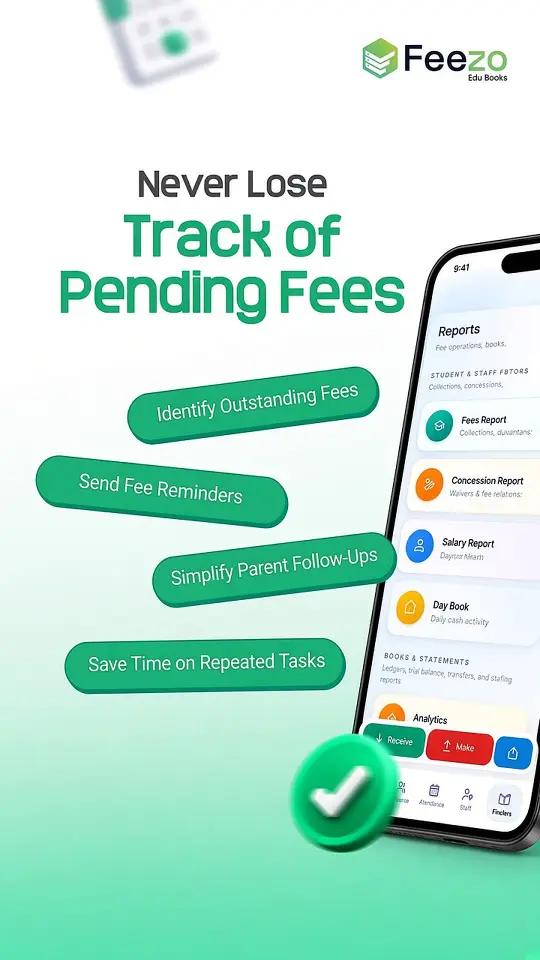
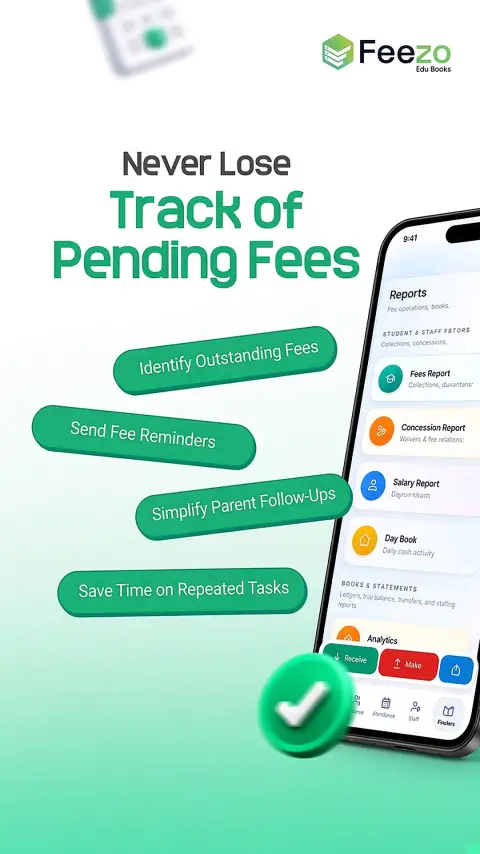
Serve display-sized WebP assets so PageSpeed stops downloading multi-megabyte PNGs.

diff --git a/src/components/marketing/sections/DigitalTransformation.tsx b/src/components/marketing/sections/DigitalTransformation.tsx
@@ -75,24 +75,24 @@ export function DigitalTransformation() {
 
           {/* Top right — follow-up */}
           <motion.article
-            className={`${CARD} overflow-hidden bg-[#f4fbf0] md:h-[380px]`}
+            className={`${CARD} flex min-h-[300px] flex-col bg-[#f4fbf0] sm:min-h-[340px] lg:min-h-[380px]`}
             initial={{ opacity: 0, y: 24 }}
             whileInView={{ opacity: 1, y: 0 }}
             viewport={{ once: true, margin: "-60px" }}
             transition={{ duration: 0.65, ease: easeOutExpo, delay: 0.06 }}
           >
             <MintGlow position="top-right" />
-            <div className="relative z-10 flex flex-col md:h-[380px]">
-              <div className="relative z-10 flex w-full flex-col p-6 sm:p-8 md:w-[36%] md:pr-0 md:pb-4 lg:w-[38%]">
+            <div className="relative z-10 flex min-h-0 flex-1 flex-col lg:flex-row lg:items-stretch">
+              <div className="relative z-10 flex w-full flex-col p-6 sm:p-8 lg:w-[44%] lg:shrink-0 lg:pr-3">
                 <h3 className="text-[22px] font-bold leading-[1.15] text-[var(--mkt-ink)] sm:text-[26px]">
                   One-click
                   <br />
                   follow-up
                 </h3>
-                <p className="mt-2.5 max-w-[28rem] text-[13px] leading-relaxed text-[var(--mkt-ink)] md:max-w-none">
+                <p className="mt-2.5 max-w-[28rem] text-[13px] leading-relaxed text-[var(--mkt-ink)] lg:max-w-none">
                   {FOLLOW_UP.body}
                 </p>
-                <div className="mt-5 flex flex-col gap-2 sm:mt-6 md:mt-auto md:pt-4">
+                <div className="mt-5 flex flex-col gap-2 sm:mt-6 lg:mt-auto lg:pt-4">
                   {FOLLOW_UP.steps.map((label, idx) => (
                     <span
                       key={label}
@@ -112,24 +112,23 @@ export function DigitalTransformation() {
               </div>
 
               <motion.div
-                className="relative mx-auto mt-1 flex h-[210px] w-full max-w-[320px] items-end justify-center sm:h-[240px] sm:max-w-[360px] md:pointer-events-none md:absolute md:inset-y-0 md:right-0 md:mx-0 md:mt-0 md:h-full md:max-w-none md:w-[64%] md:items-end md:justify-end lg:w-[62%]"
+                className="relative mx-auto flex h-[210px] w-full max-w-[280px] items-end justify-center overflow-hidden sm:h-[240px] sm:max-w-[300px] lg:mx-0 lg:mt-auto lg:h-auto lg:min-h-[260px] lg:max-w-none lg:flex-1 lg:justify-end lg:self-stretch"
                 initial={{ opacity: 0, y: 16, scale: 0.98 }}
                 whileInView={{ opacity: 1, y: 0, scale: 1 }}
                 viewport={{ once: true }}
                 transition={{ duration: 0.75, ease: easeOutExpo, delay: 0.2 }}
               >
-                <picture>
-                  <source type="image/webp" srcSet="/digital/2.webp" />
-                  <img
-                    src="/digital/2.png"
-                    alt={FOLLOW_UP.imageAlt}
-                    width={720}
-                    height={979}
-                    className="h-full w-auto max-w-full object-contain object-bottom drop-shadow-[0_14px_32px_rgba(0,0,0,0.14)] md:max-w-none md:object-right-bottom"
-                    loading="lazy"
-                    decoding="async"
-                  />
-                </picture>
+                <img
+                  src="/digital/2.webp"
+                  alt={FOLLOW_UP.imageAlt}
+                  width={540}
+                  height={735}
+                  sizes="(max-width: 1024px) 280px, 360px"
+                  className="h-full w-auto max-h-full max-w-full object-contain object-bottom drop-shadow-[0_14px_32px_rgba(0,0,0,0.14)] lg:object-right-bottom"
+                  loading="lazy"
+                  decoding="async"
+                  fetchPriority="low"
+                />
               </motion.div>
             </div>
           </motion.article>

diff --git a/src/components/marketing/HeroShowcase.tsx b/src/components/marketing/HeroShowcase.tsx
@@ -9,7 +9,7 @@ const POSTER_START_FALLBACK = "/home/explode-start-lcp.jpg";
 const POSTER_START_MOBILE = "/home/explode-start-720.webp";
 
 /** Bump when the video file changes so stale copies are evicted. */
-const VIDEO_VERSION = "v1";
+const VIDEO_VERSION = "v2";
 const CACHE_NAME = `feezo-hero-${VIDEO_VERSION}`;
 const CACHED_COOKIE = "feezo_hero_cached";
 const COOKIE_MAX_AGE = 60 * 60 * 24 * 30;
@@ -135,11 +135,15 @@ function prefersLightData(): boolean {
   return Boolean(conn?.saveData) || /(^|-)2g$/.test(conn?.effectiveType ?? "");
 }
 
-/** Keep the multi-megabyte hero video off the mobile critical path. */
+/** Keep the multi-megabyte hero video off the mobile / bot critical path. */
 function prefersPosterOnly(): boolean {
   if (typeof window === "undefined") return true;
-  if (window.matchMedia("(max-width: 768px)").matches) return true;
+  if (window.matchMedia("(max-width: 1024px)").matches) return true;
   if (window.matchMedia("(prefers-reduced-data: reduce)").matches) return true;
+  if (typeof navigator !== "undefined" && "connection" in navigator) {
+    const conn = (navigator as Navigator & { connection?: { downlink?: number } }).connection;
+    if (typeof conn?.downlink === "number" && conn.downlink > 0 && conn.downlink < 5) return true;
+  }
   return prefersLightData();
 }
 
@@ -332,23 +336,18 @@ export function HeroShowcase({ alt, startDelayMs = 700 }: { alt: string; startDe
         style={AMBIENT_BACKDROP}
       />
       <div className="absolute inset-0" style={EDGE_FEATHER}>
-        <picture>
-          <source
-            type="image/webp"
-            srcSet={`${POSTER_START_MOBILE} 720w, ${POSTER_START} 960w`}
-            sizes="(max-width: 768px) 100vw, 960px"
-          />
-          <img
-            src={POSTER_START_FALLBACK}
-            alt={alt}
-            width={960}
-            height={540}
-            decoding="async"
-            fetchPriority="high"
-            className="absolute inset-0 h-full w-full select-none object-contain"
-            draggable={false}
-          />
-        </picture>
+        <img
+          src={POSTER_START_MOBILE}
+          srcSet={`${POSTER_START_MOBILE} 720w, ${POSTER_START} 960w`}
+          sizes="(max-width: 768px) 100vw, 960px"
+          alt={alt}
+          width={720}
+          height={405}
+          decoding="async"
+          fetchPriority="high"
+          className="absolute inset-0 h-full w-full select-none object-contain"
+          draggable={false}
+        />
 
         {canPlay && src ? (
           <motion.video

diff --git a/src/components/pwa/PwaInstallBanner.tsx b/src/components/pwa/PwaInstallBanner.tsx
@@ -56,7 +56,7 @@ export function PwaInstallBanner() {
             <div className="h-1 w-full bg-gradient-to-r from-[#0F766E] via-[#14B8A6] to-[#0F766E]" />
             <div className="flex items-start gap-3 p-3.5 sm:p-4">
               <div className="grid h-11 w-11 shrink-0 place-items-center overflow-hidden rounded-xl bg-slate-950">
-                <img src="/icons/feezo-mark.png" alt="" className="h-9 w-9 object-contain" />
+                <img src="/icons/feezo-mark.webp" alt="" width={96} height={96} className="h-9 w-9 object-contain" />
               </div>
               <div className="min-w-0 flex-1">
                 <div className="pr-8 text-[14px] font-semibold tracking-tight text-slate-900 dark:text-zinc-50">
@@ -197,7 +197,7 @@ export function PwaInstallCard({ className }: { className?: string }) {
       >
         <div className="flex items-start gap-3">
           <div className="grid h-12 w-12 shrink-0 place-items-center overflow-hidden rounded-xl bg-slate-950">
-            <img src="/icons/feezo-mark.png" alt="" className="h-10 w-10 object-contain" />
+            <img src="/icons/feezo-mark.webp" alt="" width={96} height={96} className="h-10 w-10 object-contain" />
           </div>
           <div className="min-w-0 flex-1">
             <div className="text-[14px] font-semibold text-slate-900 dark:text-zinc-50">

diff --git a/src/components/brand/FeezoBrand.tsx b/src/components/brand/FeezoBrand.tsx
@@ -2,7 +2,16 @@ import { cn } from "@/lib/utils";
 import { BRAND } from "@/lib/brand";
 
 export function FeezoMark({ className }: { className?: string }) {
-  return <img src={BRAND.mark} alt="" className={cn("h-full w-full object-contain", className)} />;
+  return (
+    <img
+      src={BRAND.mark}
+      alt=""
+      width={96}
+      height={96}
+      decoding="async"
+      className={cn("h-full w-full object-contain", className)}
+    />
+  );
 }
 
 export function FeezoBrand({
@@ -29,6 +38,9 @@ export function FeezoBrand({
         <img
           src={BRAND.mark}
           alt={BRAND.name}
+          width={96}
+          height={96}
+          decoding="async"
           className={cn("h-11 w-11 object-contain xl:h-12 xl:w-12", markClassName)}
         />
       </div>
@@ -46,6 +58,9 @@ export function FeezoBrand({
       <img
         src={BRAND.mark}
         alt=""
+        width={96}
+        height={96}
+        decoding="async"
         className={cn(
           "shrink-0 object-contain",
           stacked ? "h-12 w-12 xl:h-14 xl:w-14" : "h-9 w-9",

diff --git a/src/components/marketing/sections/HowItWorks.tsx b/src/components/marketing/sections/HowItWorks.tsx
@@ -209,8 +209,9 @@ function ShowcaseStrip() {
               <img
                 src={item.image}
                 alt={item.alt}
-                width={540}
-                height={960}
+                width={480}
+                height={854}
+                sizes="(max-width: 640px) 72vw, 473px"
                 className="h-full w-full object-cover object-top"
                 loading="lazy"
                 decoding="async"

diff --git a/src/lib/brand.ts b/src/lib/brand.ts
@@ -2,7 +2,7 @@
 export const BRAND = {
   name: "Feezo",
   tagline: "Edu Books",
-  mark: "/icons/feezo-mark.png",
+  mark: "/icons/feezo-mark.webp",
   /** Google Play listing — used by marketing store badges. */
   playStoreUrl: "https://play.google.com/store/apps/details?id=com.bzole.feezo",
   appStoreUrl: "https://apps.apple.com/in/app/feezo/id6811416005",
